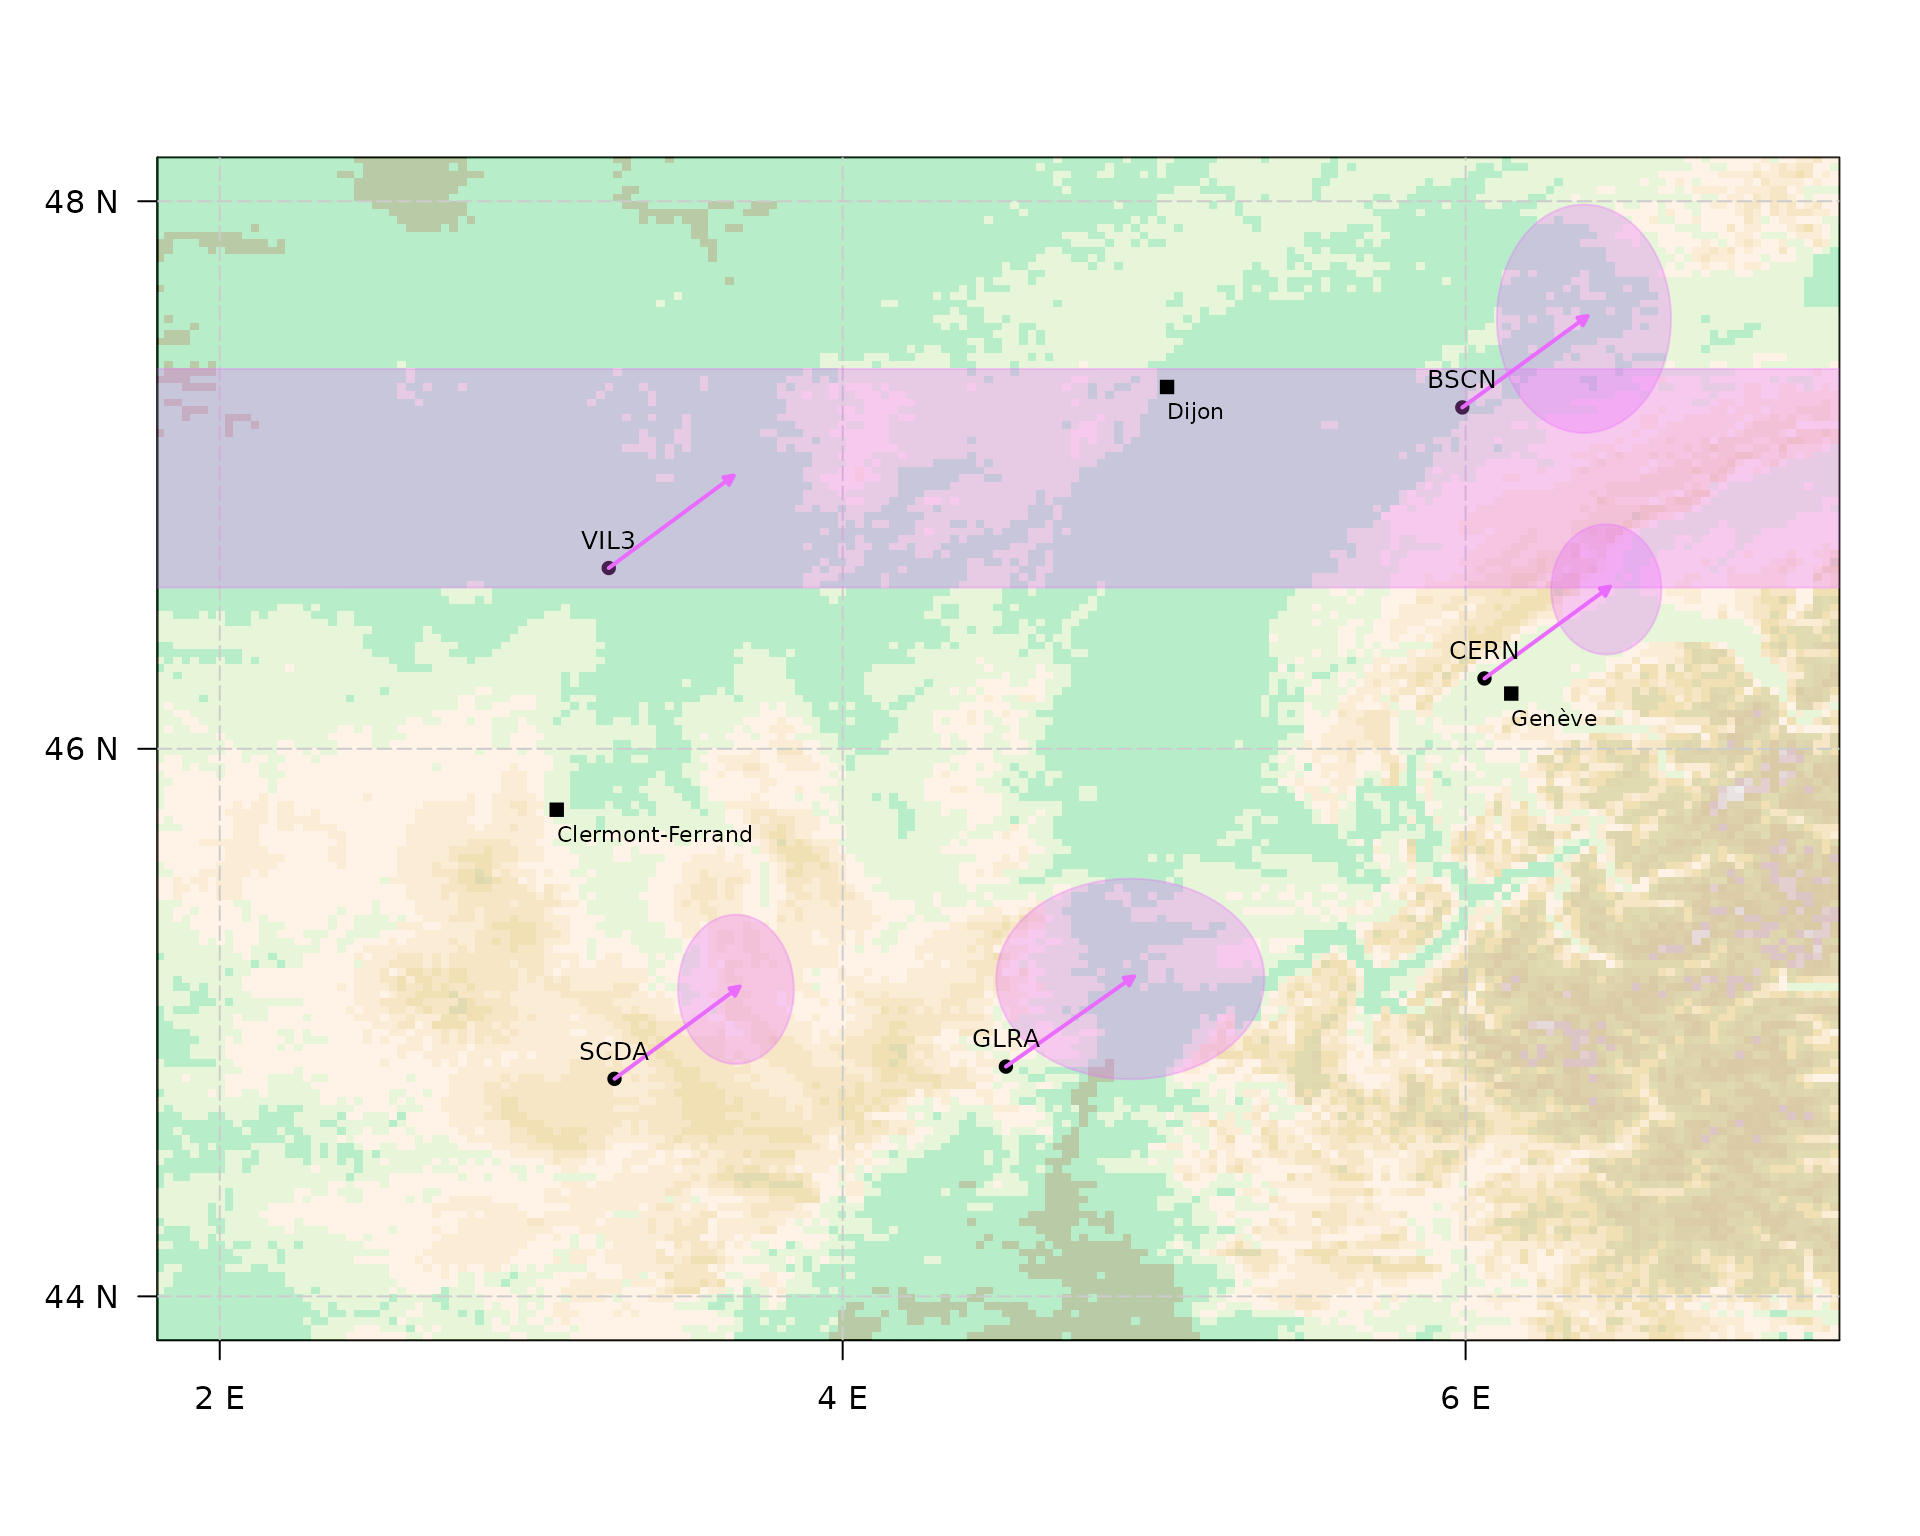
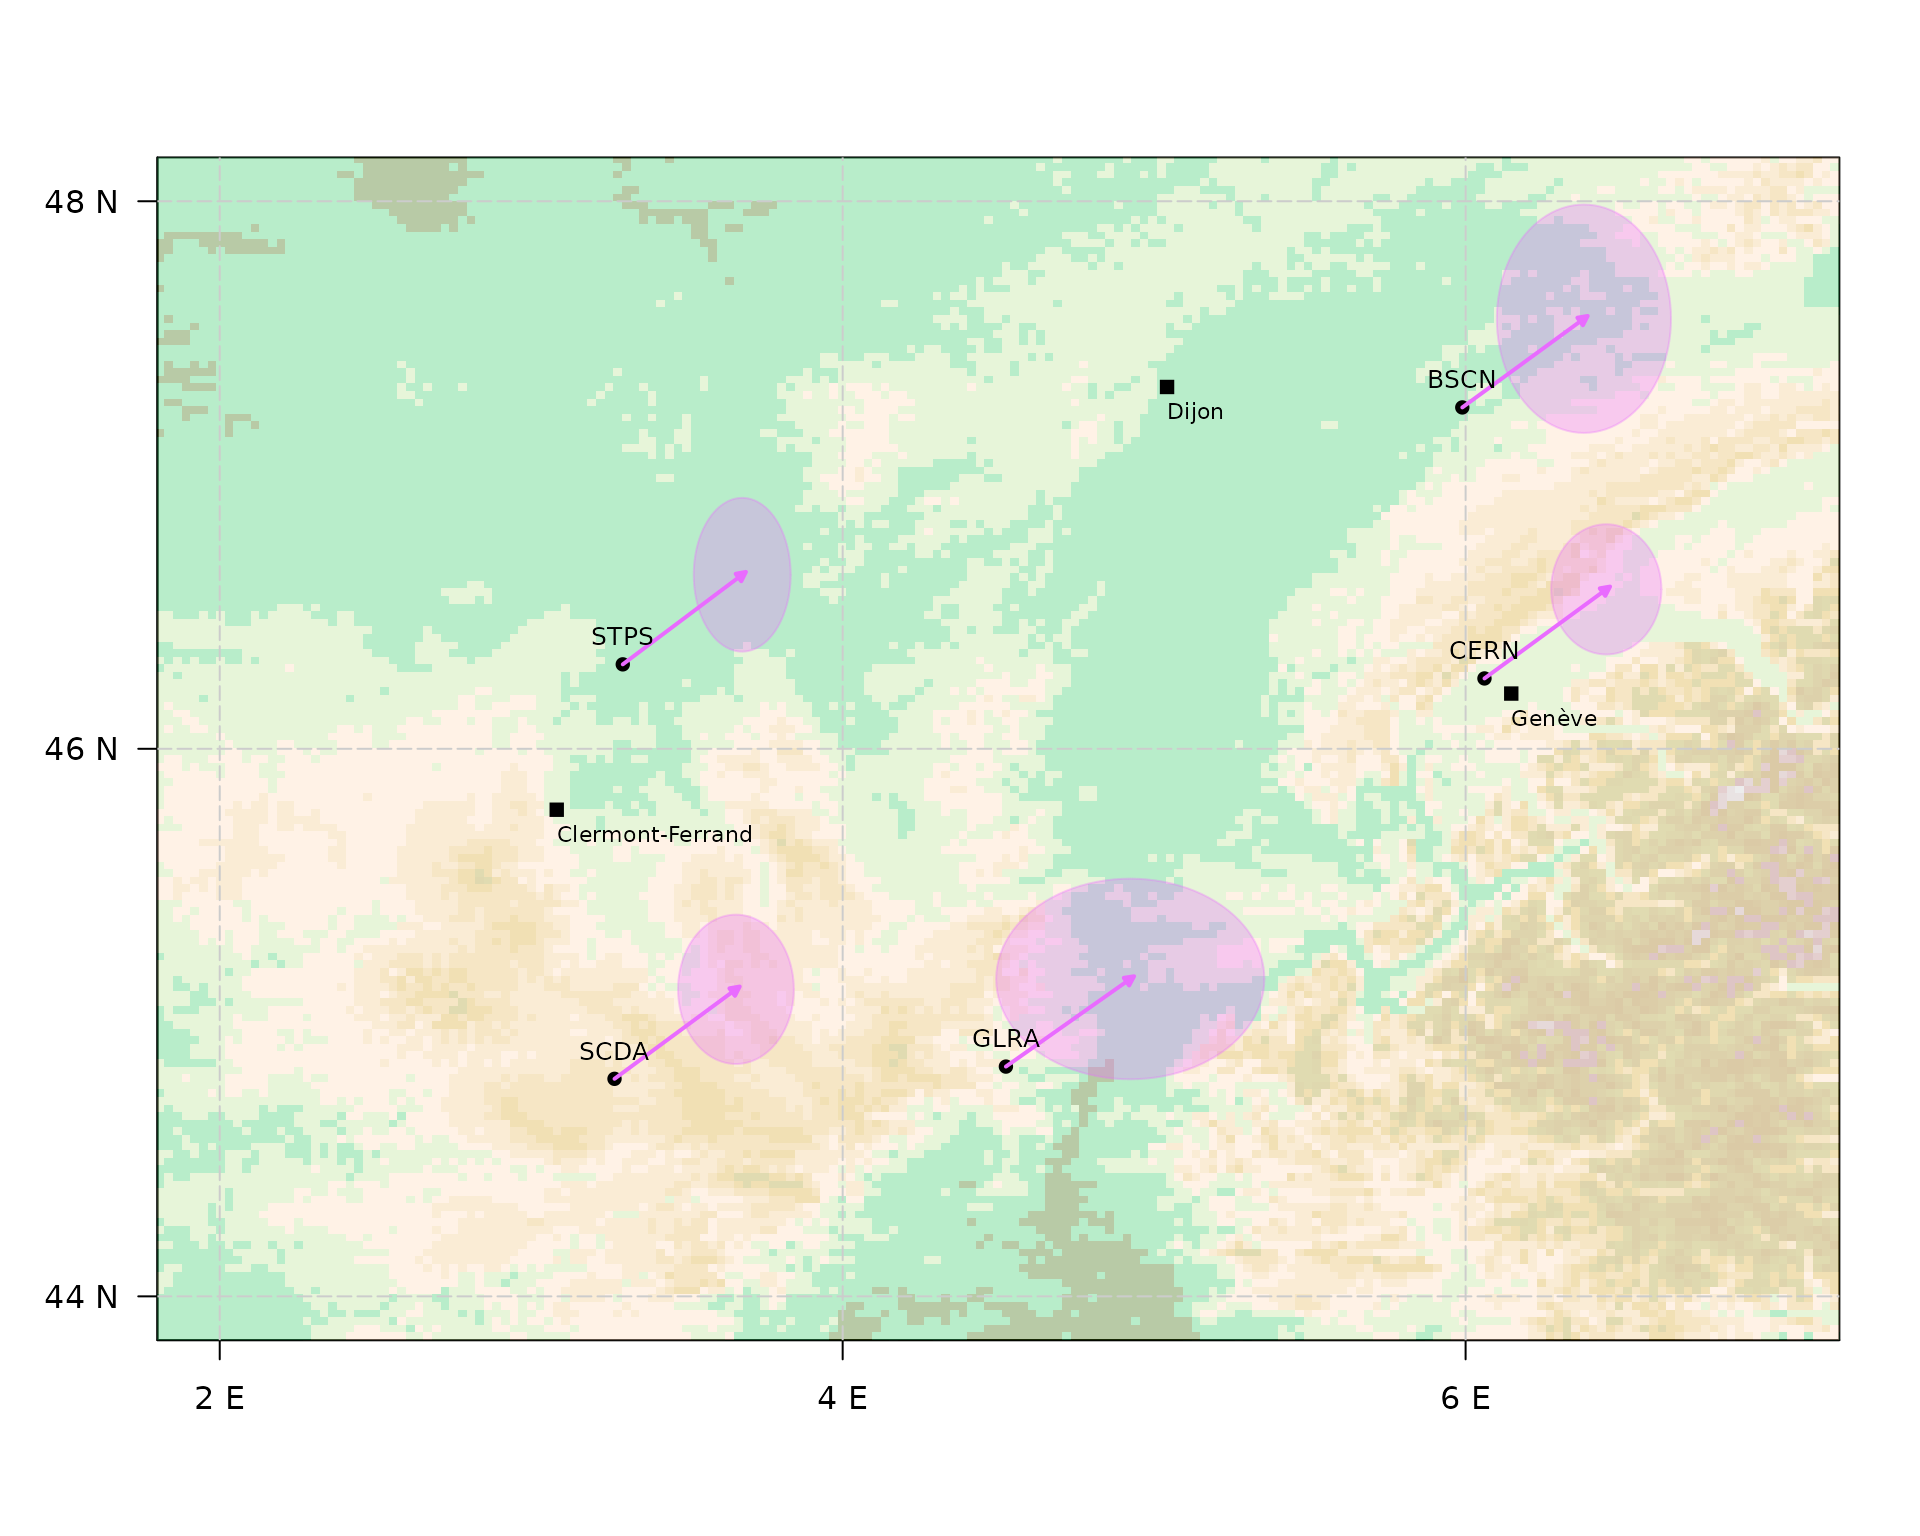
Deploying to gh-pages from @ SMAC-Group/gmwmx2@0f5cb582ac41a21bfde8e9f1ad688063e7a5cb6c 🚀

Changed region(s): [[0.0625, 0.2188, 0.9688, 0.4375]]

diff --git a/articles/estimate_small_network.html b/articles/estimate_small_network.html
@@ -203,7 +203,7 @@
 <span><span class="va">all_station</span> <span class="op">=</span> <span class="fu"><a href="../reference/download_all_stations_ngl.html">download_all_stations_ngl</a></span><span class="op">(</span><span class="op">)</span></span>
 <span></span>
 <span><span class="co"># download selected stations</span></span>
-<span><span class="va">selected_station</span> <span class="op">=</span><span class="fu"><a href="https://rdrr.io/r/base/c.html" class="external-link">c</a></span><span class="op">(</span><span class="st">"BSCN"</span>,<span class="st">"CERN"</span> ,<span class="st">"SCDA"</span>, <span class="st">"GLRA"</span>, <span class="st">"VIL3"</span><span class="op">)</span></span>
+<span><span class="va">selected_station</span> <span class="op">=</span><span class="fu"><a href="https://rdrr.io/r/base/c.html" class="external-link">c</a></span><span class="op">(</span><span class="st">"BSCN"</span>,<span class="st">"CERN"</span> ,<span class="st">"SCDA"</span>, <span class="st">"GLRA"</span>, <span class="st">"STPS"</span><span class="op">)</span></span>
 <span><span class="co"># selected_station = c("BSCN") </span></span>
 <span><span class="va">df_network</span> <span class="op">=</span> <span class="va">all_station</span><span class="op"><a href="https://magrittr.tidyverse.org/reference/pipe.html" class="external-link">%&gt;%</a></span> <span class="fu"><a href="https://dplyr.tidyverse.org/reference/filter.html" class="external-link">filter</a></span><span class="op">(</span><span class="va">station_name</span> <span class="op"><a href="https://rspatial.github.io/terra/reference/match.html" class="external-link">%in%</a></span> <span class="va">selected_station</span><span class="op">)</span></span>
 <span><span class="va">df_network</span></span></code></pre></div>
@@ -213,7 +213,7 @@
 <span><span class="co">## 2:         CERN 46.25695 -353.9394  525.9422</span></span>
 <span><span class="co">## 3:         GLRA 44.83926 -355.4759  813.9238</span></span>
 <span><span class="co">## 4:         SCDA 44.79452 -356.7325 1115.3433</span></span>
-<span><span class="co">## 5:         VIL3 46.66031 -356.7510  269.0148</span></span></code></pre>
+<span><span class="co">## 5:         STPS 46.30844 -356.7060  299.6851</span></span></code></pre>
 <div class="sourceCode" id="cb14"><pre class="downlit sourceCode r">
 <code class="sourceCode R"><span><span class="co"># create data frame where</span></span>
 <span><span class="va">df_estimated_velocities</span> <span class="op">=</span> <span class="fu"><a href="https://rdrr.io/r/base/data.frame.html" class="external-link">data.frame</a></span><span class="op">(</span><span class="fu"><a href="https://rdrr.io/r/base/matrix.html" class="external-link">matrix</a></span><span class="op">(</span><span class="cn">NA</span>, nrow<span class="op">=</span><span class="fu"><a href="https://rdrr.io/r/base/dim.html" class="external-link">dim</a></span><span class="op">(</span><span class="va">df_network</span><span class="op">)</span><span class="op">[</span><span class="fl">1</span><span class="op">]</span>, ncol <span class="op">=</span> <span class="fl">6</span><span class="op">)</span><span class="op">)</span></span>
@@ -254,25 +254,25 @@
 <span><span class="co">## 2         CERN      4.455772e-05          1.860753e-07      5.354428e-05</span></span>
 <span><span class="co">## 3         GLRA      4.380876e-05          2.866518e-07      5.466610e-05</span></span>
 <span><span class="co">## 4         SCDA      4.475967e-05          2.134131e-07      5.337310e-05</span></span>
-<span><span class="co">## 5         VIL3      4.489091e-05          3.123353e-07      5.330089e-05</span></span>
+<span><span class="co">## 5         STPS      4.481839e-05          2.197019e-07      5.248970e-05</span></span>
 <span><span class="co">##   std_estimated_trend_E n_data estimated_trend_N_scaled</span></span>
 <span><span class="co">## 1          2.187197e-07   8059               0.01620033</span></span>
 <span><span class="co">## 2          1.384963e-07   4968               0.01627471</span></span>
 <span><span class="co">## 3          3.368441e-07   5739               0.01600115</span></span>
 <span><span class="co">## 4          1.454117e-07   6206               0.01634847</span></span>
-<span><span class="co">## 5          4.234129e-04   4339               0.01639641</span></span>
+<span><span class="co">## 5          1.217579e-07   6269               0.01636992</span></span>
 <span><span class="co">##   std_estimated_trend_N_scaled estimated_trend_E_scaled</span></span>
 <span><span class="co">## 1                 1.191695e-04               0.01952338</span></span>
 <span><span class="co">## 2                 6.796401e-05               0.01955705</span></span>
 <span><span class="co">## 3                 1.046996e-04               0.01996679</span></span>
 <span><span class="co">## 4                 7.794912e-05               0.01949452</span></span>
-<span><span class="co">## 5                 1.140805e-04               0.01946815</span></span>
+<span><span class="co">## 5                 8.024612e-05               0.01917186</span></span>
 <span><span class="co">##   std_estimated_trend_E_scaled</span></span>
 <span><span class="co">## 1                 7.988737e-05</span></span>
 <span><span class="co">## 2                 5.058577e-05</span></span>
 <span><span class="co">## 3                 1.230323e-04</span></span>
 <span><span class="co">## 4                 5.311164e-05</span></span>
-<span><span class="co">## 5                 1.546516e-01</span></span></code></pre>
+<span><span class="co">## 5                 4.447209e-05</span></span></code></pre>
 <div class="sourceCode" id="cb18"><pre class="downlit sourceCode r">
 <code class="sourceCode R"><span><span class="co"># load elevation data</span></span>
 <span><span class="va">tmp</span><span class="op">=</span><span class="fu"><a href="https://rdrr.io/r/base/tempfile.html" class="external-link">tempdir</a></span><span class="op">(</span><span class="op">)</span></span>
